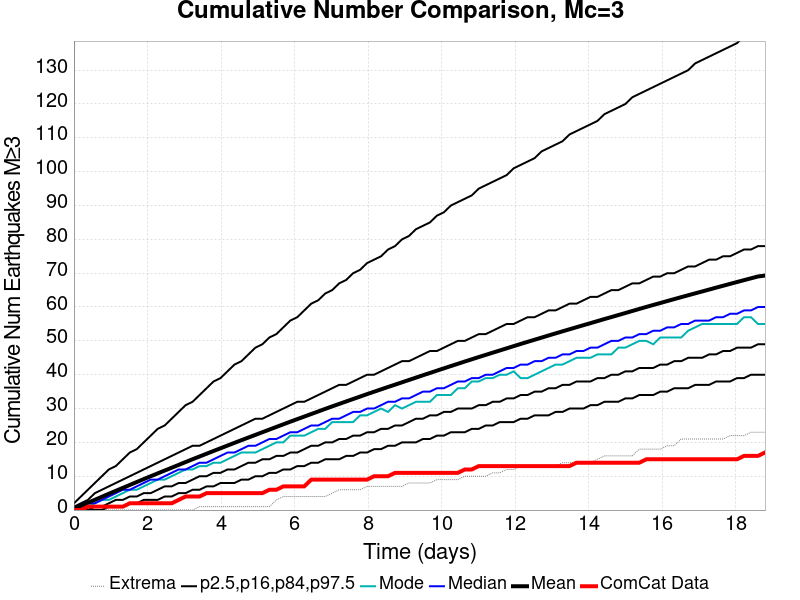
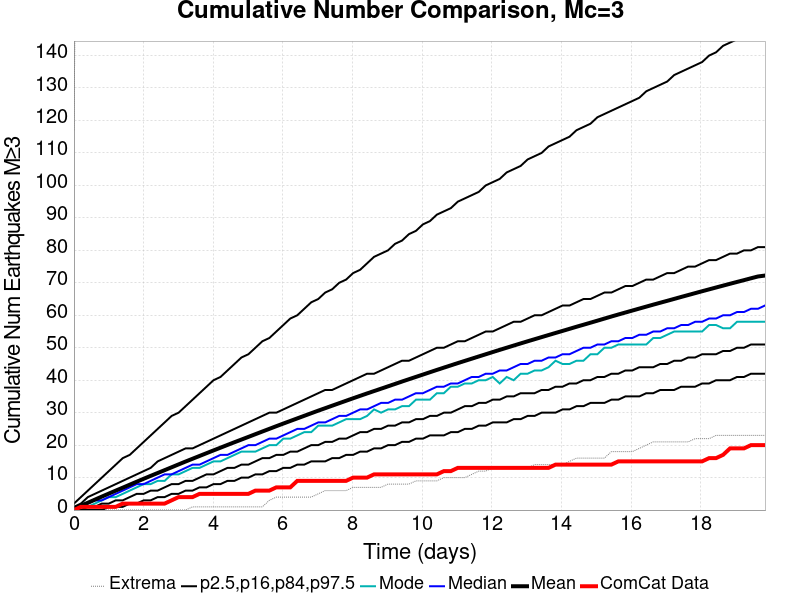
automatic plot and index update from opensha.usc.edu

diff --git a/2019_07_27-ComCatM7p1_ci38457511_21DaysAfter_ShakeMapSurfaces-noSpont-full_td-scale1.14/index.html b/2019_07_27-ComCatM7p1_ci38457511_21DaysAfter_ShakeMapSurfaces-noSpont-full_td-scale1.14/index.html
@@ -761,15 +761,15 @@ img {
 <p><em><a href="#table-of-contents">(top)</a></em></p>
 <table>
 <thead>
-<tr><th></th><th>1 Day</th><th>1 Week</th><th>18.8 Day</th></tr>
+<tr><th></th><th>1 Day</th><th>1 Week</th><th>19.8 Day</th></tr>
 </thead>
 <tbody>
-<tr><td><strong>M≥3</strong></td><td><img src="plots/comcat_compare_mean_1d_m3.png" alt="Map" /></td><td><img src="plots/comcat_compare_mean_1wk_m3.png" alt="Map" /></td><td><img src="plots/comcat_compare_mean_18.8d_m3.png" alt="Map" /></td></tr>
-<tr><td><strong>M≥4</strong></td><td><img src="plots/comcat_compare_mean_1d_m4.png" alt="Map" /></td><td><img src="plots/comcat_compare_mean_1wk_m4.png" alt="Map" /></td><td><img src="plots/comcat_compare_mean_18.8d_m4.png" alt="Map" /></td></tr>
-<tr><td><strong>M≥5</strong></td><td><img src="plots/comcat_compare_mean_1d_m5.png" alt="Map" /></td><td><img src="plots/comcat_compare_mean_1wk_m5.png" alt="Map" /></td><td><img src="plots/comcat_compare_mean_18.8d_m5.png" alt="Map" /></td></tr>
-<tr><td><strong>M≥6</strong></td><td><img src="plots/comcat_compare_mean_1d_m6.png" alt="Map" /></td><td><img src="plots/comcat_compare_mean_1wk_m6.png" alt="Map" /></td><td><img src="plots/comcat_compare_mean_18.8d_m6.png" alt="Map" /></td></tr>
-<tr><td><strong>M≥7</strong></td><td><img src="plots/comcat_compare_mean_1d_m7.png" alt="Map" /></td><td><img src="plots/comcat_compare_mean_1wk_m7.png" alt="Map" /></td><td><img src="plots/comcat_compare_mean_18.8d_m7.png" alt="Map" /></td></tr>
-<tr><td><strong>M≥8</strong></td><td><img src="plots/comcat_compare_mean_1d_m8.png" alt="Map" /></td><td><img src="plots/comcat_compare_mean_1wk_m8.png" alt="Map" /></td><td><img src="plots/comcat_compare_mean_18.8d_m8.png" alt="Map" /></td></tr>
+<tr><td><strong>M≥3</strong></td><td><img src="plots/comcat_compare_mean_1d_m3.png" alt="Map" /></td><td><img src="plots/comcat_compare_mean_1wk_m3.png" alt="Map" /></td><td><img src="plots/comcat_compare_mean_19.8d_m3.png" alt="Map" /></td></tr>
+<tr><td><strong>M≥4</strong></td><td><img src="plots/comcat_compare_mean_1d_m4.png" alt="Map" /></td><td><img src="plots/comcat_compare_mean_1wk_m4.png" alt="Map" /></td><td><img src="plots/comcat_compare_mean_19.8d_m4.png" alt="Map" /></td></tr>
+<tr><td><strong>M≥5</strong></td><td><img src="plots/comcat_compare_mean_1d_m5.png" alt="Map" /></td><td><img src="plots/comcat_compare_mean_1wk_m5.png" alt="Map" /></td><td><img src="plots/comcat_compare_mean_19.8d_m5.png" alt="Map" /></td></tr>
+<tr><td><strong>M≥6</strong></td><td><img src="plots/comcat_compare_mean_1d_m6.png" alt="Map" /></td><td><img src="plots/comcat_compare_mean_1wk_m6.png" alt="Map" /></td><td><img src="plots/comcat_compare_mean_19.8d_m6.png" alt="Map" /></td></tr>
+<tr><td><strong>M≥7</strong></td><td><img src="plots/comcat_compare_mean_1d_m7.png" alt="Map" /></td><td><img src="plots/comcat_compare_mean_1wk_m7.png" alt="Map" /></td><td><img src="plots/comcat_compare_mean_19.8d_m7.png" alt="Map" /></td></tr>
+<tr><td><strong>M≥8</strong></td><td><img src="plots/comcat_compare_mean_1d_m8.png" alt="Map" /></td><td><img src="plots/comcat_compare_mean_1wk_m8.png" alt="Map" /></td><td><img src="plots/comcat_compare_mean_19.8d_m8.png" alt="Map" /></td></tr>
 </tbody>
 </table>
 <h3 id="comcat-depth-distribution">ComCat Depth Distribution</h3>

diff --git a/index.html b/index.html
@@ -27,7 +27,7 @@ img {
 <tbody>
 <tr><td>2019/08/09</td><td><a href="2019_08_09-ComCatM7p1_ci38457511_ShakeMapSurfaces_NoERT-noSpont-no_ert/index.html">ComCat M7.1 (ci38457511), ShakeMap Surfaces, NoERT</a></td><td>2019/07/05</td><td>100000</td><td>Done</td><td>2019/08/09</td></tr>
 <tr><td>2019/08/03</td><td><a href="2019_08_03-ComCatM7p1_ci38457511_28DaysAfter_ShakeMapSurfaces-noSpont-full_td-scale1.14/index.html">ComCat M7.1 (ci38457511), 28 Days After, ShakeMap Surfaces</a></td><td>2019/08/02</td><td>100000</td><td>Done</td><td>2019/08/15</td></tr>
-<tr><td>2019/07/27</td><td><a href="2019_07_27-ComCatM7p1_ci38457511_21DaysAfter_ShakeMapSurfaces-noSpont-full_td-scale1.14/index.html">ComCat M7.1 (ci38457511), 21 Days After, ShakeMap Surfaces</a></td><td>2019/07/26</td><td>100000</td><td>Done</td><td>2019/08/14</td></tr>
+<tr><td>2019/07/27</td><td><a href="2019_07_27-ComCatM7p1_ci38457511_21DaysAfter_ShakeMapSurfaces-noSpont-full_td-scale1.14/index.html">ComCat M7.1 (ci38457511), 21 Days After, ShakeMap Surfaces</a></td><td>2019/07/26</td><td>100000</td><td>Done</td><td>2019/08/15</td></tr>
 <tr><td>2019/07/25</td><td><a href="2019_07_25-ComCatM7p1_ci38457511_19p6DaysAfter_ShakeMapSurfaces-noSpont-full_td-scale1.14/index.html">ComCat M7.1 (ci38457511), 19.6 Days After, ShakeMap Surfaces</a></td><td>2019/07/25</td><td>100000</td><td>Done</td><td>2019/08/15</td></tr>
 <tr><td>2019/07/18</td><td><a href="2019_07_18-ComCatM7p1_ci38457511_InvertedSurface_ShakeMapSurface-noSpont-full_td-scale1.14/index.html">ComCat M7.1 (ci38457511), Inverted Surface, ShakeMap Surface</a></td><td>2019/07/05</td><td>100000</td><td>Done</td><td>2019/08/12</td></tr>
 <tr><td>2019/07/16</td><td><a href="2019_07_16-ComCatM7p1_ci38457511_11DaysAfter_ShakeMapSurfaces-noSpont-full_td-scale1.14/index.html">ComCat M7.1 (ci38457511), 11 Days After, ShakeMap Surfaces</a></td><td>2019/07/16</td><td>100000</td><td>Done</td><td>2019/08/14</td></tr>

diff --git a/2019_07_27-ComCatM7p1_ci38457511_21DaysAfter_ShakeMapSurfaces-noSpont-full_td-scale1.14/README.md b/2019_07_27-ComCatM7p1_ci38457511_21DaysAfter_ShakeMapSurfaces-noSpont-full_td-scale1.14/README.md
@@ -703,14 +703,14 @@ These plots compare simulated sequences with data from ComCat. All plots only co
 ### ComCat Mean Spatial Distribution
 *[(top)](#table-of-contents)*
 
-|  | 1 Day | 1 Week | 18.8 Day |
+|  | 1 Day | 1 Week | 19.8 Day |
 |-----|-----|-----|-----|
-| **M≥3** | ![Map](plots/comcat_compare_mean_1d_m3.png) | ![Map](plots/comcat_compare_mean_1wk_m3.png) | ![Map](plots/comcat_compare_mean_18.8d_m3.png) |
-| **M≥4** | ![Map](plots/comcat_compare_mean_1d_m4.png) | ![Map](plots/comcat_compare_mean_1wk_m4.png) | ![Map](plots/comcat_compare_mean_18.8d_m4.png) |
-| **M≥5** | ![Map](plots/comcat_compare_mean_1d_m5.png) | ![Map](plots/comcat_compare_mean_1wk_m5.png) | ![Map](plots/comcat_compare_mean_18.8d_m5.png) |
-| **M≥6** | ![Map](plots/comcat_compare_mean_1d_m6.png) | ![Map](plots/comcat_compare_mean_1wk_m6.png) | ![Map](plots/comcat_compare_mean_18.8d_m6.png) |
-| **M≥7** | ![Map](plots/comcat_compare_mean_1d_m7.png) | ![Map](plots/comcat_compare_mean_1wk_m7.png) | ![Map](plots/comcat_compare_mean_18.8d_m7.png) |
-| **M≥8** | ![Map](plots/comcat_compare_mean_1d_m8.png) | ![Map](plots/comcat_compare_mean_1wk_m8.png) | ![Map](plots/comcat_compare_mean_18.8d_m8.png) |
+| **M≥3** | ![Map](plots/comcat_compare_mean_1d_m3.png) | ![Map](plots/comcat_compare_mean_1wk_m3.png) | ![Map](plots/comcat_compare_mean_19.8d_m3.png) |
+| **M≥4** | ![Map](plots/comcat_compare_mean_1d_m4.png) | ![Map](plots/comcat_compare_mean_1wk_m4.png) | ![Map](plots/comcat_compare_mean_19.8d_m4.png) |
+| **M≥5** | ![Map](plots/comcat_compare_mean_1d_m5.png) | ![Map](plots/comcat_compare_mean_1wk_m5.png) | ![Map](plots/comcat_compare_mean_19.8d_m5.png) |
+| **M≥6** | ![Map](plots/comcat_compare_mean_1d_m6.png) | ![Map](plots/comcat_compare_mean_1wk_m6.png) | ![Map](plots/comcat_compare_mean_19.8d_m6.png) |
+| **M≥7** | ![Map](plots/comcat_compare_mean_1d_m7.png) | ![Map](plots/comcat_compare_mean_1wk_m7.png) | ![Map](plots/comcat_compare_mean_19.8d_m7.png) |
+| **M≥8** | ![Map](plots/comcat_compare_mean_1d_m8.png) | ![Map](plots/comcat_compare_mean_1wk_m8.png) | ![Map](plots/comcat_compare_mean_19.8d_m8.png) |
 
 ### ComCat Depth Distribution
 *[(top)](#table-of-contents)*

diff --git a/README.md b/README.md
@@ -4,7 +4,7 @@
 |-----|-----|-----|-----|-----|-----|
 | 2019/08/09 | [ComCat M7.1 (ci38457511), ShakeMap Surfaces, NoERT](2019_08_09-ComCatM7p1_ci38457511_ShakeMapSurfaces_NoERT-noSpont-no_ert/README.md) | 2019/07/05 | 100000 | Done | 2019/08/09 |
 | 2019/08/03 | [ComCat M7.1 (ci38457511), 28 Days After, ShakeMap Surfaces](2019_08_03-ComCatM7p1_ci38457511_28DaysAfter_ShakeMapSurfaces-noSpont-full_td-scale1.14/README.md) | 2019/08/02 | 100000 | Done | 2019/08/15 |
-| 2019/07/27 | [ComCat M7.1 (ci38457511), 21 Days After, ShakeMap Surfaces](2019_07_27-ComCatM7p1_ci38457511_21DaysAfter_ShakeMapSurfaces-noSpont-full_td-scale1.14/README.md) | 2019/07/26 | 100000 | Done | 2019/08/14 |
+| 2019/07/27 | [ComCat M7.1 (ci38457511), 21 Days After, ShakeMap Surfaces](2019_07_27-ComCatM7p1_ci38457511_21DaysAfter_ShakeMapSurfaces-noSpont-full_td-scale1.14/README.md) | 2019/07/26 | 100000 | Done | 2019/08/15 |
 | 2019/07/25 | [ComCat M7.1 (ci38457511), 19.6 Days After, ShakeMap Surfaces](2019_07_25-ComCatM7p1_ci38457511_19p6DaysAfter_ShakeMapSurfaces-noSpont-full_td-scale1.14/README.md) | 2019/07/25 | 100000 | Done | 2019/08/15 |
 | 2019/07/18 | [ComCat M7.1 (ci38457511), Inverted Surface, ShakeMap Surface](2019_07_18-ComCatM7p1_ci38457511_InvertedSurface_ShakeMapSurface-noSpont-full_td-scale1.14/README.md) | 2019/07/05 | 100000 | Done | 2019/08/12 |
 | 2019/07/16 | [ComCat M7.1 (ci38457511), 11 Days After, ShakeMap Surfaces](2019_07_16-ComCatM7p1_ci38457511_11DaysAfter_ShakeMapSurfaces-noSpont-full_td-scale1.14/README.md) | 2019/07/16 | 100000 | Done | 2019/08/14 |
